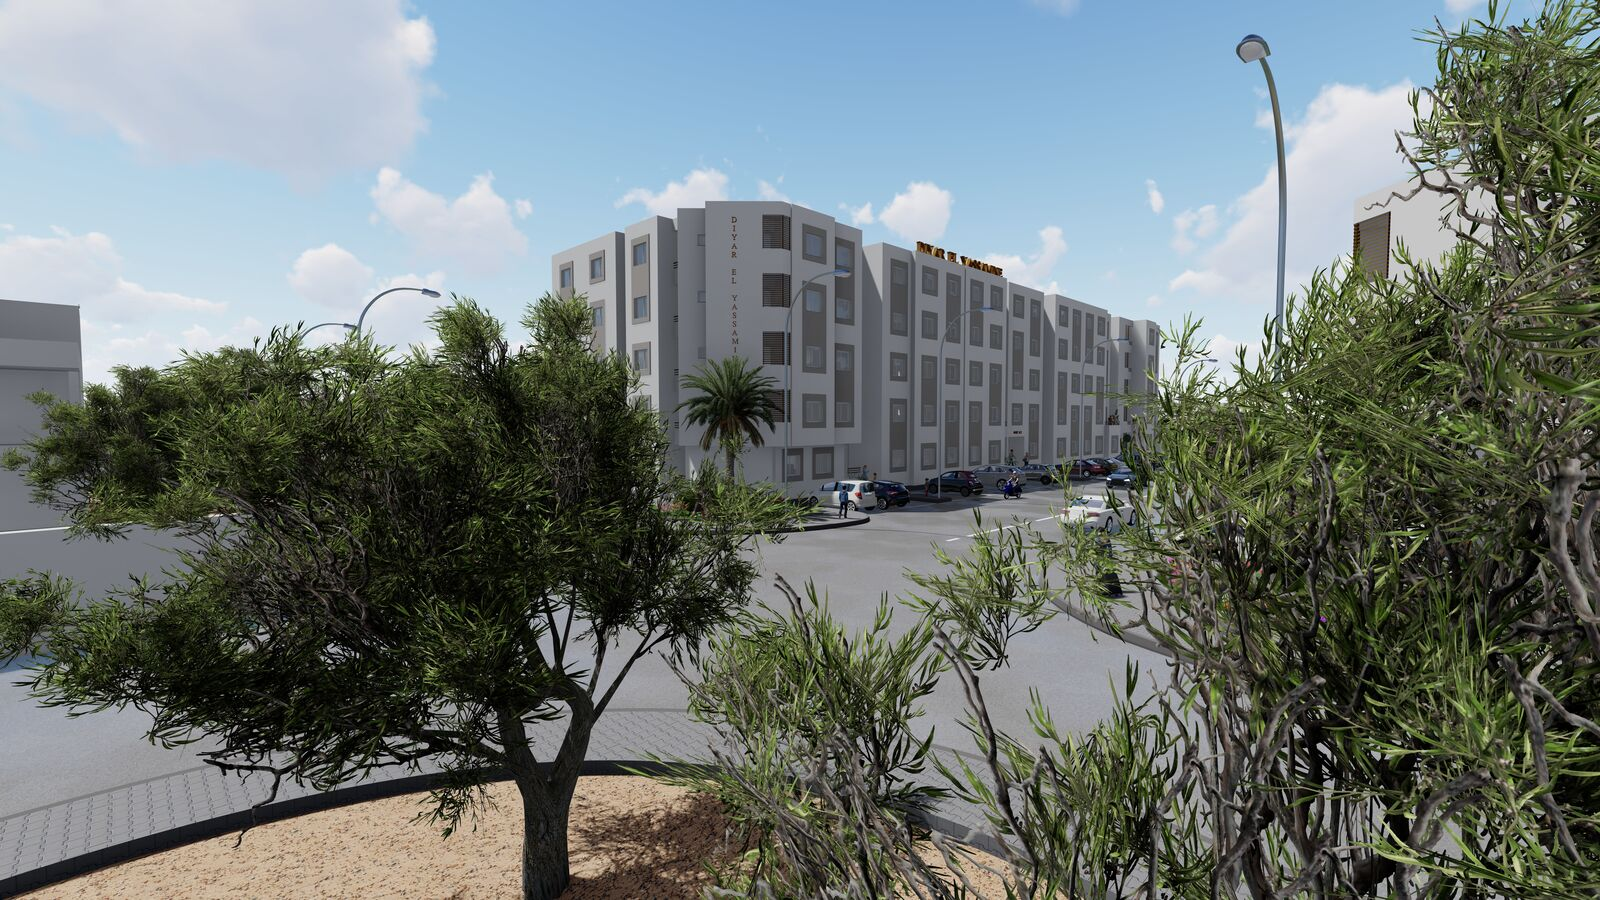
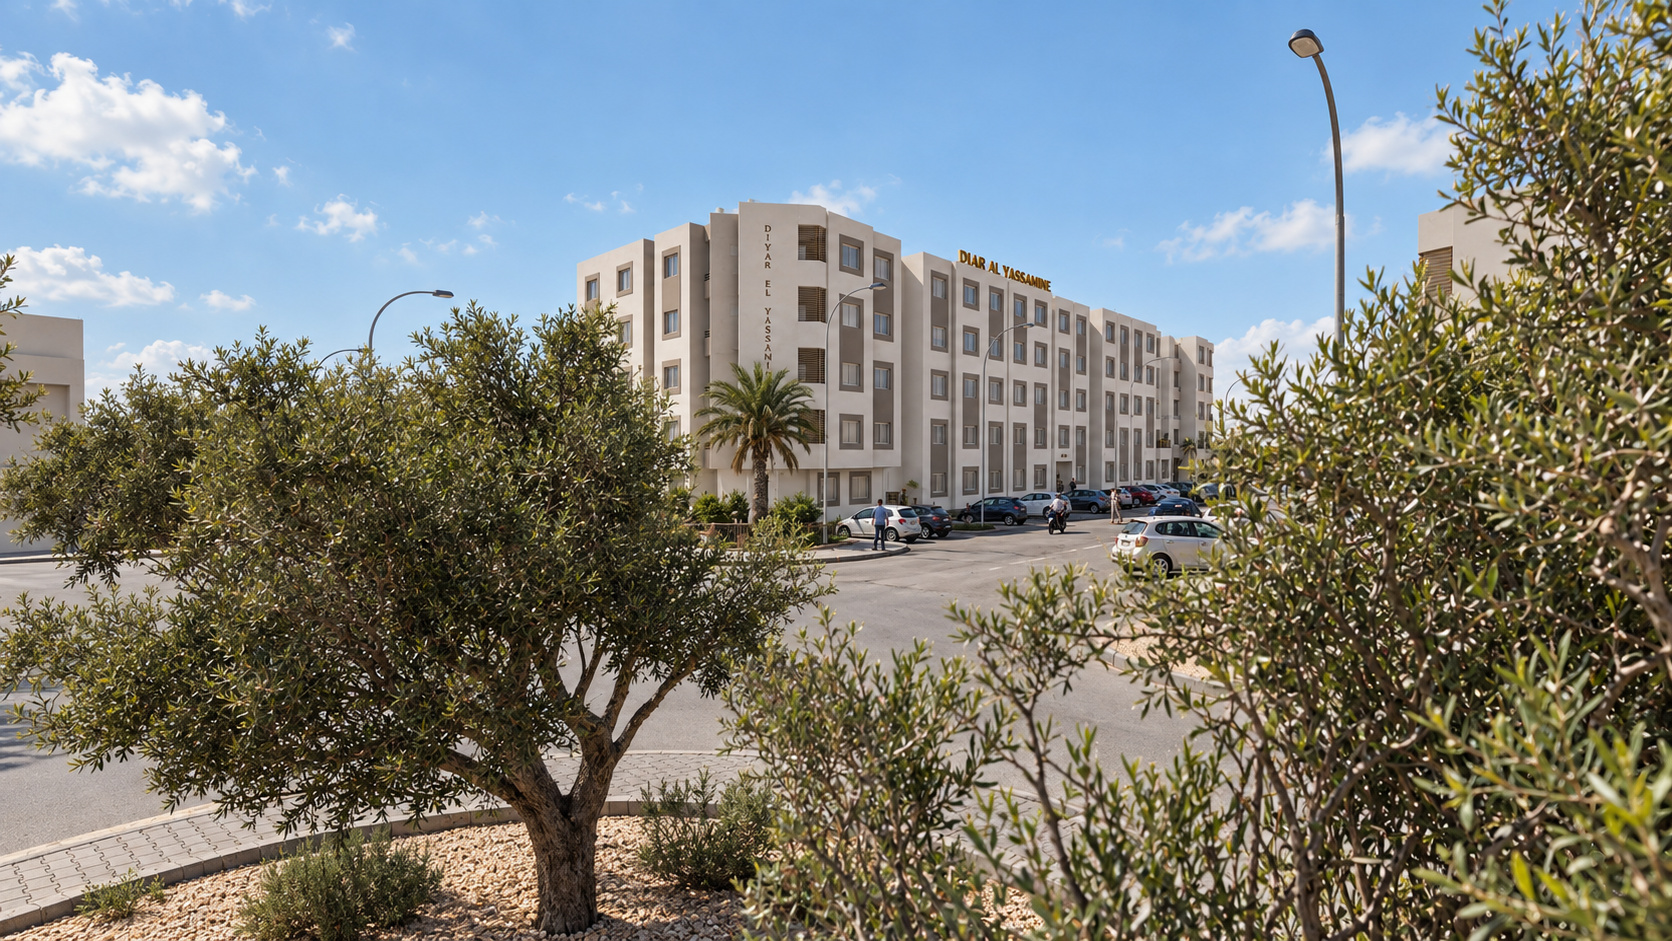
Regenerate Yassamine perspectives with photorealistic materials and lighting

diff --git a/src/lib/seed.ts b/src/lib/seed.ts
@@ -206,21 +206,21 @@ const yassamine: Project = {
   status: 'ongoing',
   year: 2025,
   deliveryLabel: L('Livraisons échelonnées', 'Phased deliveries', 'تسليم على مراحل'),
-  heroImage: '/media/diar-al-yassamine/hero.jpg',
-  cover: '/media/diar-al-yassamine/3d-2.jpg',
+  heroImage: '/media/diar-al-yassamine/hero.jpg?v=photo-20260916',
+  cover: '/media/diar-al-yassamine/3d-2.jpg?v=photo-20260916',
   gallery: [
-    { src: '/media/diar-al-yassamine/hero.jpg', caption: L('Vue d’ensemble du lotissement', 'Overall development view', 'منظر عام للتجزئة') },
-    { src: '/media/diar-al-yassamine/3d-2.jpg', caption: L('Perspective d’ensemble', 'Overall perspective', 'منظور عام') },
-    { src: '/media/diar-al-yassamine/3d-3.jpg', caption: L('Voie interne', 'Internal street', 'الطريق الداخلية') },
-    { src: '/media/diar-al-yassamine/3d-4.jpg', caption: L('Espaces communs', 'Common areas', 'المساحات المشتركة') },
-    { src: '/media/diar-al-yassamine/3d-5.jpg', caption: L('Vue aérienne', 'Aerial view', 'منظر جوي') },
-    { src: '/media/diar-al-yassamine/3d-6.jpg', caption: L('Traitement des façades', 'Façade treatment', 'معالجة الواجهات') },
-    { src: '/media/diar-al-yassamine/3d-7.jpg', caption: L('Entrées d’immeubles', 'Building entrances', 'مداخل العمارات') },
-    { src: '/media/diar-al-yassamine/3d-8.jpg', caption: L('Ambiance nocturne', 'Night ambience', 'أجواء ليلية') },
-    { src: '/media/diar-al-yassamine/bloc-a123.jpg', caption: L('Blocs A1 · A2 · A3', 'Blocks A1 · A2 · A3', 'العمارات A1 · A2 · A3') },
-    { src: '/media/diar-al-yassamine/bloc-a5.jpg', caption: L('Bloc A5', 'Block A5', 'العمارة A5') },
-    { src: '/media/diar-al-yassamine/bloc-a6.jpg', caption: L('Bloc A6', 'Block A6', 'العمارة A6') },
-    { src: '/media/diar-al-yassamine/bloc-a7.jpg', caption: L('Bloc A7', 'Block A7', 'العمارة A7') },
+    { src: '/media/diar-al-yassamine/hero.jpg?v=photo-20260916', caption: L('Vue d’ensemble · Perspective 3D', 'Development overview · 3D visualization', 'منظر عام · تصور ثلاثي الأبعاد') },
+    { src: '/media/diar-al-yassamine/3d-2.jpg?v=photo-20260916', caption: L('Jardins et stationnement · Perspective 3D', 'Gardens and parking · 3D visualization', 'الحدائق ومواقف السيارات · تصور ثلاثي الأبعاد') },
+    { src: '/media/diar-al-yassamine/3d-3.jpg?v=photo-20260916', caption: L('Voie interne · Perspective 3D', 'Internal street · 3D visualization', 'الطريق الداخلية · تصور ثلاثي الأبعاد') },
+    { src: '/media/diar-al-yassamine/3d-4.jpg?v=photo-20260916', caption: L('Espaces communs · Perspective 3D', 'Common areas · 3D visualization', 'المساحات المشتركة · تصور ثلاثي الأبعاد') },
+    { src: '/media/diar-al-yassamine/3d-5.jpg?v=photo-20260916', caption: L('Vue aérienne d’ensemble · Perspective 3D', 'Aerial overview · 3D visualization', 'منظر جوي عام · تصور ثلاثي الأبعاد') },
+    { src: '/media/diar-al-yassamine/3d-6.jpg?v=photo-20260916', caption: L('Les blocs vus du ciel · Perspective 3D', 'Blocks from above · 3D visualization', 'العمارات من الأعلى · تصور ثلاثي الأبعاد') },
+    { src: '/media/diar-al-yassamine/3d-7.jpg?v=photo-20260916', caption: L('Implantation du lotissement · Perspective 3D', 'Development layout · 3D visualization', 'توزيع العمارات · تصور ثلاثي الأبعاد') },
+    { src: '/media/diar-al-yassamine/3d-8.jpg?v=photo-20260916', caption: L('Vue depuis les jardins · Perspective 3D', 'View from the gardens · 3D visualization', 'منظر من الحدائق · تصور ثلاثي الأبعاد') },
+    { src: '/media/diar-al-yassamine/bloc-a123.jpg?v=photo-20260916', caption: L('Blocs A1 · A2 · A3 · Perspective 3D', 'Blocks A1 · A2 · A3 · 3D visualization', 'العمارات A1 · A2 · A3 · تصور ثلاثي الأبعاد') },
+    { src: '/media/diar-al-yassamine/bloc-a5.jpg?v=photo-20260916', caption: L('Bloc A5 · Perspective 3D', 'Block A5 · 3D visualization', 'العمارة A5 · تصور ثلاثي الأبعاد') },
+    { src: '/media/diar-al-yassamine/bloc-a6.jpg?v=photo-20260916', caption: L('Bloc A6 · Perspective 3D', 'Block A6 · 3D visualization', 'العمارة A6 · تصور ثلاثي الأبعاد') },
+    { src: '/media/diar-al-yassamine/bloc-a7.jpg?v=photo-20260916', caption: L('Bloc A7 · Perspective 3D', 'Block A7 · 3D visualization', 'العمارة A7 · تصور ثلاثي الأبعاد') },
     { src: '/media/diar-al-yassamine/reel-1.jpg', caption: L('Chantier livré — blocs A1-A3', 'Delivered — blocks A1-A3', 'مُسلَّم — العمارات A1-A3') },
     { src: '/media/diar-al-yassamine/reel-2.jpg', caption: L('Façades réalisées', 'Completed façades', 'الواجهات المنجزة') },
     { src: '/media/diar-al-yassamine/reel-3.jpg', caption: L('Blocs A5 · A6', 'Blocks A5 · A6', 'العمارات A5 · A6') },
@@ -499,7 +499,7 @@ const NEWS = [
       'The Diar Al Yassamine programme is on the list of projects approved for FOPROLOS financing. Our sales team supports every buyer through the bank file, from loan simulation to deed signature.',
       'مشروع ديار الياسمين مُدرج ضمن قائمة المشاريع المصادق عليها لتمويل FOPROLOS. مصلحتنا التجارية ترافق كل مقتنٍ في إعداد الملف البنكي، من محاكاة القرض إلى إمضاء العقد.',
     ),
-    image: '/media/diar-al-yassamine/3d-2.jpg',
+    image: '/media/diar-al-yassamine/3d-2.jpg?v=photo-20260916',
   },
   {
     slug: 'espace-client-en-ligne',

diff --git a/src/components/site/Gallery.tsx b/src/components/site/Gallery.tsx
@@ -67,7 +67,7 @@ export default function Gallery({
       </div>
 
       {index !== null && (
-        <div ref={dialog} className="fixed inset-0 z-[100] flex flex-col bg-ink/97 backdrop-blur-sm" role="dialog" aria-modal="true" aria-label={items[index].caption}>
+        <div ref={dialog} className="fixed inset-0 z-[100] flex flex-col bg-ink/[0.97] backdrop-blur-sm" role="dialog" aria-modal="true" aria-label={items[index].caption}>
           <div className="flex items-center justify-between px-5 py-4 text-white/70">
             <span className="text-[12px] uppercase tracking-[0.2em]">
               {index + 1} {labels.of} {items.length}

diff --git a/src/app/[locale]/(site)/actualites/page.tsx b/src/app/[locale]/(site)/actualites/page.tsx
@@ -30,7 +30,7 @@ export default async function NewsPage({ params }: { params: Promise<{ locale: s
         eyebrow={dict.nav.news}
         title={dict.news.title}
         subtitle={dict.news.subtitle}
-        image="/media/diar-al-yassamine/3d-8.jpg"
+        image="/media/diar-al-yassamine/3d-8.jpg?v=photo-20260916"
         breadcrumb={[
           { label: dict.nav.home, href: `/${locale}` },
           { label: dict.nav.news, href: `/${locale}/actualites` },

diff --git a/scripts/import-yassamine-photos.py b/scripts/import-yassamine-photos.py
@@ -1,0 +1,30 @@
+"""Publish the reviewed photorealistic edits without changing the real photos."""
+import argparse
+import hashlib
+import json
+from pathlib import Path
+from PIL import Image
+
+parser = argparse.ArgumentParser()
+parser.add_argument('generated_directory', type=Path)
+args = parser.parse_args()
+root = Path(__file__).resolve().parents[1]
+selection = json.loads((root / 'scripts/yassamine-photo-renders.json').read_text(encoding='utf-8'))
+destination = root / 'public/media/diar-al-yassamine'
+expected = {'hero', *[f'3d-{i}' for i in range(2, 9)], 'bloc-a123', 'bloc-a5', 'bloc-a6', 'bloc-a7'}
+assert {item['outputFile'] for item in selection['images']} == expected
+assert len(selection['images']) == 12
+untouched = {p: hashlib.sha256(p.read_bytes()).hexdigest() for p in destination.glob('*.jpg') if p.stem not in expected}
+manifest = []
+for item in selection['images']:
+    source = args.generated_directory / item['generatedFile']
+    target = destination / (item['outputFile'] + '.jpg')
+    with Image.open(source) as image:
+        image = image.convert('RGB')
+        assert image.width >= 1600 and image.height >= 900
+        image.save(target, 'JPEG', quality=95, subsampling=0, optimize=True)
+        manifest.append({**item, 'width': image.width, 'height': image.height, 'sha256': hashlib.sha256(target.read_bytes()).hexdigest()})
+for path, original_hash in untouched.items():
+    assert hashlib.sha256(path.read_bytes()).hexdigest() == original_hash
+(destination / 'photorealistic-manifest.json').write_text(json.dumps({'mode': 'built-in image_gen edit', 'images': manifest}, indent=2)+'\n', encoding='utf-8')
+print(f'Published {len(manifest)} perspectives; {len(untouched)} real photos unchanged.')

diff --git a/PHOTOS-YASSAMINE.md b/PHOTOS-YASSAMINE.md
@@ -1,0 +1,20 @@
+# Perspectives de Diar Al Yassamine
+
+Les 12 perspectives 3D ont été retravaillées avec l'outil intégré image_gen,
+en mode retouche à partir de chacune des images d'origine : lumière naturelle,
+enduit plus détaillé, vitrages, chaussées, véhicules et végétation réalistes.
+Ce sont des visualisations du projet, identifiées dans la galerie comme
+« Perspective 3D ». Les 7 photos réelles du chantier et des intérieurs sont conservées.
+
+Les fichiers finaux sont dans public/media/diar-al-yassamine : hero.jpg,
+3d-2.jpg à 3d-8.jpg, bloc-a123.jpg et bloc-a5.jpg à bloc-a7.jpg.
+Les originaux sont conservés dans l'historique Git à la version 1e9ec83.
+Les inscriptions des façades ont permis de corriger l'inversion des fichiers A5/A6.
+
+Consignes : scripts/yassamine-photo-prompts.json.
+Sélection des sorties : scripts/yassamine-photo-renders.json.
+Publication : scripts/import-yassamine-photos.py, avec le dossier des images générées en argument.
+Résolutions et empreintes : public/media/diar-al-yassamine/photorealistic-manifest.json.
+Les JPG sont enregistrés en qualité 95 sans sous-échantillonnage ni agrandissement artificiel.
+Les URL portent la version photo-20260916 pour renouveler les miniatures en cache,
+y compris les couvertures du projet et les illustrations des actualités.
